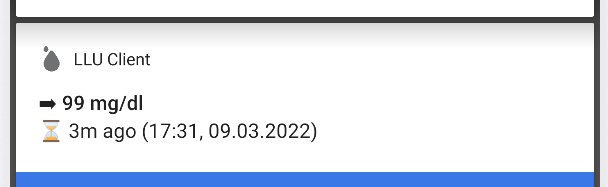
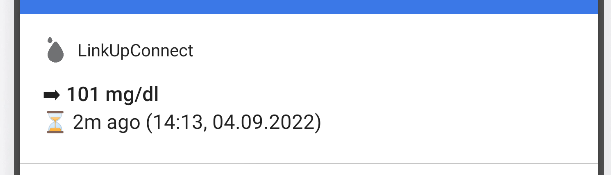
Rename project, update images and README.md

diff --git a/app/src/main/java/de/cmtjk/linkupconnect/LinkUpConnectService.java b/app/src/main/java/de/cmtjk/linkupconnect/LinkUpConnectService.java
@@ -1,4 +1,4 @@
-package de.cmtjk.lluclient;
+package de.cmtjk.linkupconnect;
 
 import static android.app.PendingIntent.FLAG_IMMUTABLE;
 
@@ -35,14 +35,14 @@ import java.util.Map;
 import java.util.Timer;
 import java.util.TimerTask;
 
-public class LLUClientService extends Service {
+public class LinkUpConnectService extends Service {
 
-    public static final String LOCAL_BROADCAST = LLUClientService.class.getName() + "LocationBroadcast";
+    public static final String LOCAL_BROADCAST = LinkUpConnectService.class.getName() + "LocationBroadcast";
     private static boolean SERVICE_IS_RUNNING = false;
     private static final int PERMANENT_NOTIFICATION_ID = 1;
     private final Timer timer = new Timer();
-    private final String channelId = "LLUClientForeGroundChannelId";
-    private final NotificationChannel notificationChannel = new NotificationChannel(channelId, "LLU Client Foreground Notification Channel", NotificationManager.IMPORTANCE_HIGH);
+    private final String channelId = "LinkUpConnectForeGroundChannelId";
+    private final NotificationChannel notificationChannel = new NotificationChannel(channelId, "LinkUpConnect Foreground Notification Channel", NotificationManager.IMPORTANCE_HIGH);
     private NotificationManager manager;
     private NotificationCompat.Builder notificationBuilder;
 
@@ -71,7 +71,7 @@ public class LLUClientService extends Service {
         SERVICE_IS_RUNNING = true;
         sendToActivitiesLogView("Service started");
 
-        SharedPreferences settings = getSharedPreferences("LLUClient", MODE_PRIVATE);
+        SharedPreferences settings = getSharedPreferences("LinkUpConnect", MODE_PRIVATE);
         int intervalInSeconds = Integer.parseInt(settings.getString(Properties.INTERVAL.name(), "60"));
 
         RequestQueue queue = Volley.newRequestQueue(getApplicationContext());

diff --git a/app/src/main/java/de/cmtjk/linkupconnect/MainActivity.java b/app/src/main/java/de/cmtjk/linkupconnect/MainActivity.java
@@ -1,4 +1,4 @@
-package de.cmtjk.lluclient;
+package de.cmtjk.linkupconnect;
 
 import android.content.BroadcastReceiver;
 import android.content.Context;
@@ -27,7 +27,7 @@ public class MainActivity extends AppCompatActivity {
         super.onCreate(savedInstanceState);
         setContentView(R.layout.activity_main);
 
-        SharedPreferences preferences = getSharedPreferences("LLUClient", MODE_PRIVATE);
+        SharedPreferences preferences = getSharedPreferences("LinkUpConnect", MODE_PRIVATE);
 
         fillInputFieldsWith(preferences);
         displayInformationDialog(preferences);
@@ -88,7 +88,7 @@ public class MainActivity extends AppCompatActivity {
     }
 
     private void updateApplicationStateIfServiceIsAlreadyRunning(SwitchMaterial sw) {
-        if (LLUClientService.isRunning()) {
+        if (LinkUpConnectService.isRunning()) {
             disableInputFields();
             sw.setChecked(true);
         }
@@ -103,7 +103,7 @@ public class MainActivity extends AppCompatActivity {
 
     private void configureSwitch(SharedPreferences preferences, SwitchMaterial sw) {
         sw.setOnCheckedChangeListener(((compoundButton, turnedOn) -> {
-            Intent intent = new Intent(this, LLUClientService.class);
+            Intent intent = new Intent(this, LinkUpConnectService.class);
             if (turnedOn) {
                 disableInputFields();
                 savePreferences(preferences);
@@ -148,7 +148,7 @@ public class MainActivity extends AppCompatActivity {
                     private boolean debugEnabled() {
                         return ((CheckBox) findViewById(R.id.debug)).isChecked();
                     }
-                }, new IntentFilter(LLUClientService.LOCAL_BROADCAST)
+                }, new IntentFilter(LinkUpConnectService.LOCAL_BROADCAST)
         );
     }
 

diff --git a/app/src/androidTest/java/de/cmtjk/linkupconnect/ExampleInstrumentedTest.java b/app/src/androidTest/java/de/cmtjk/linkupconnect/ExampleInstrumentedTest.java
@@ -1,4 +1,4 @@
-package de.cmtjk.lluclient;
+package de.cmtjk.linkupconnect;
 
 import android.content.Context;
 
@@ -21,6 +21,6 @@ public class ExampleInstrumentedTest {
     public void useAppContext() {
         // Context of the app under test.
         Context appContext = InstrumentationRegistry.getInstrumentation().getTargetContext();
-        assertEquals("de.cmtjk.lluclient", appContext.getPackageName());
+        assertEquals("de.cmtjk.linkupconnect", appContext.getPackageName());
     }
 }

diff --git a/app/src/main/java/de/cmtjk/linkupconnect/Properties.java b/app/src/main/java/de/cmtjk/linkupconnect/Properties.java
@@ -1,4 +1,4 @@
-package de.cmtjk.lluclient;
+package de.cmtjk.linkupconnect;
 
 public enum Properties {
     EMAIL,

diff --git a/app/src/test/java/de/cmtjk/linkupconnect/ExampleUnitTest.java b/app/src/test/java/de/cmtjk/linkupconnect/ExampleUnitTest.java
@@ -1,4 +1,4 @@
-package de.cmtjk.lluclient;
+package de.cmtjk.linkupconnect;
 
 import org.junit.Test;
 

diff --git a/README.md b/README.md
@@ -1,8 +1,6 @@
-**⚠This implementation does not provide any integration with xDrip or other apps. In only displays the current glucose level fetched from LibreView as permanent notification on the lock screen.**
+# LinkUpConnect
 
-# LLU Client
-
-[Download ⬇](https://github.com/cmtjk/LLUClient/releases)
+[Download ⬇](https://github.com/cmtjk/LinkUpConnect/releases)
 
 Displays your current blood glucose level fetched from LibreView as notification: status bar, lock screen, smartwatch (partially).
 
